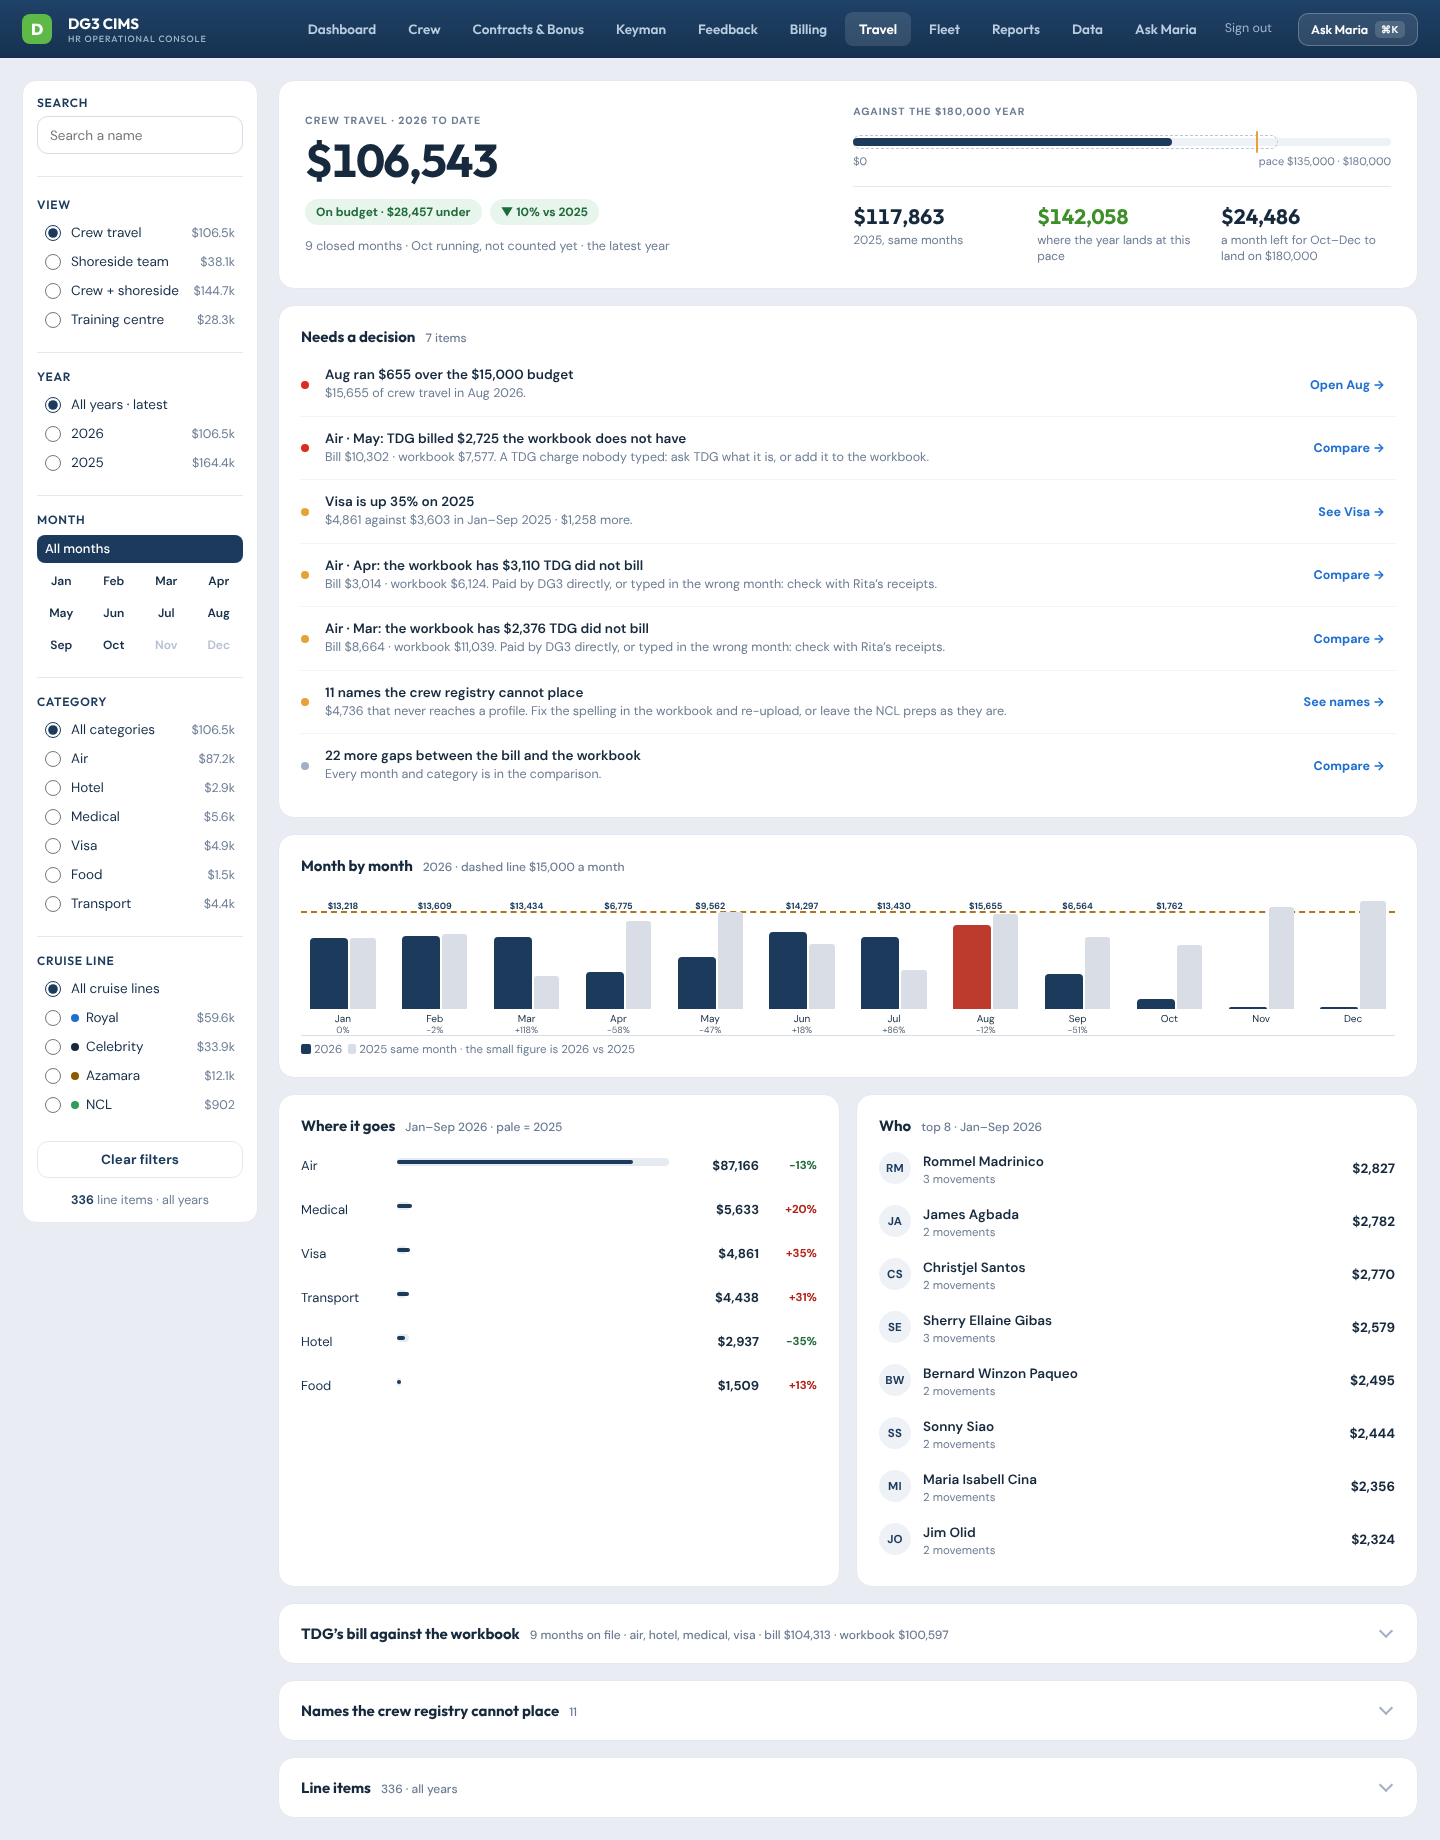
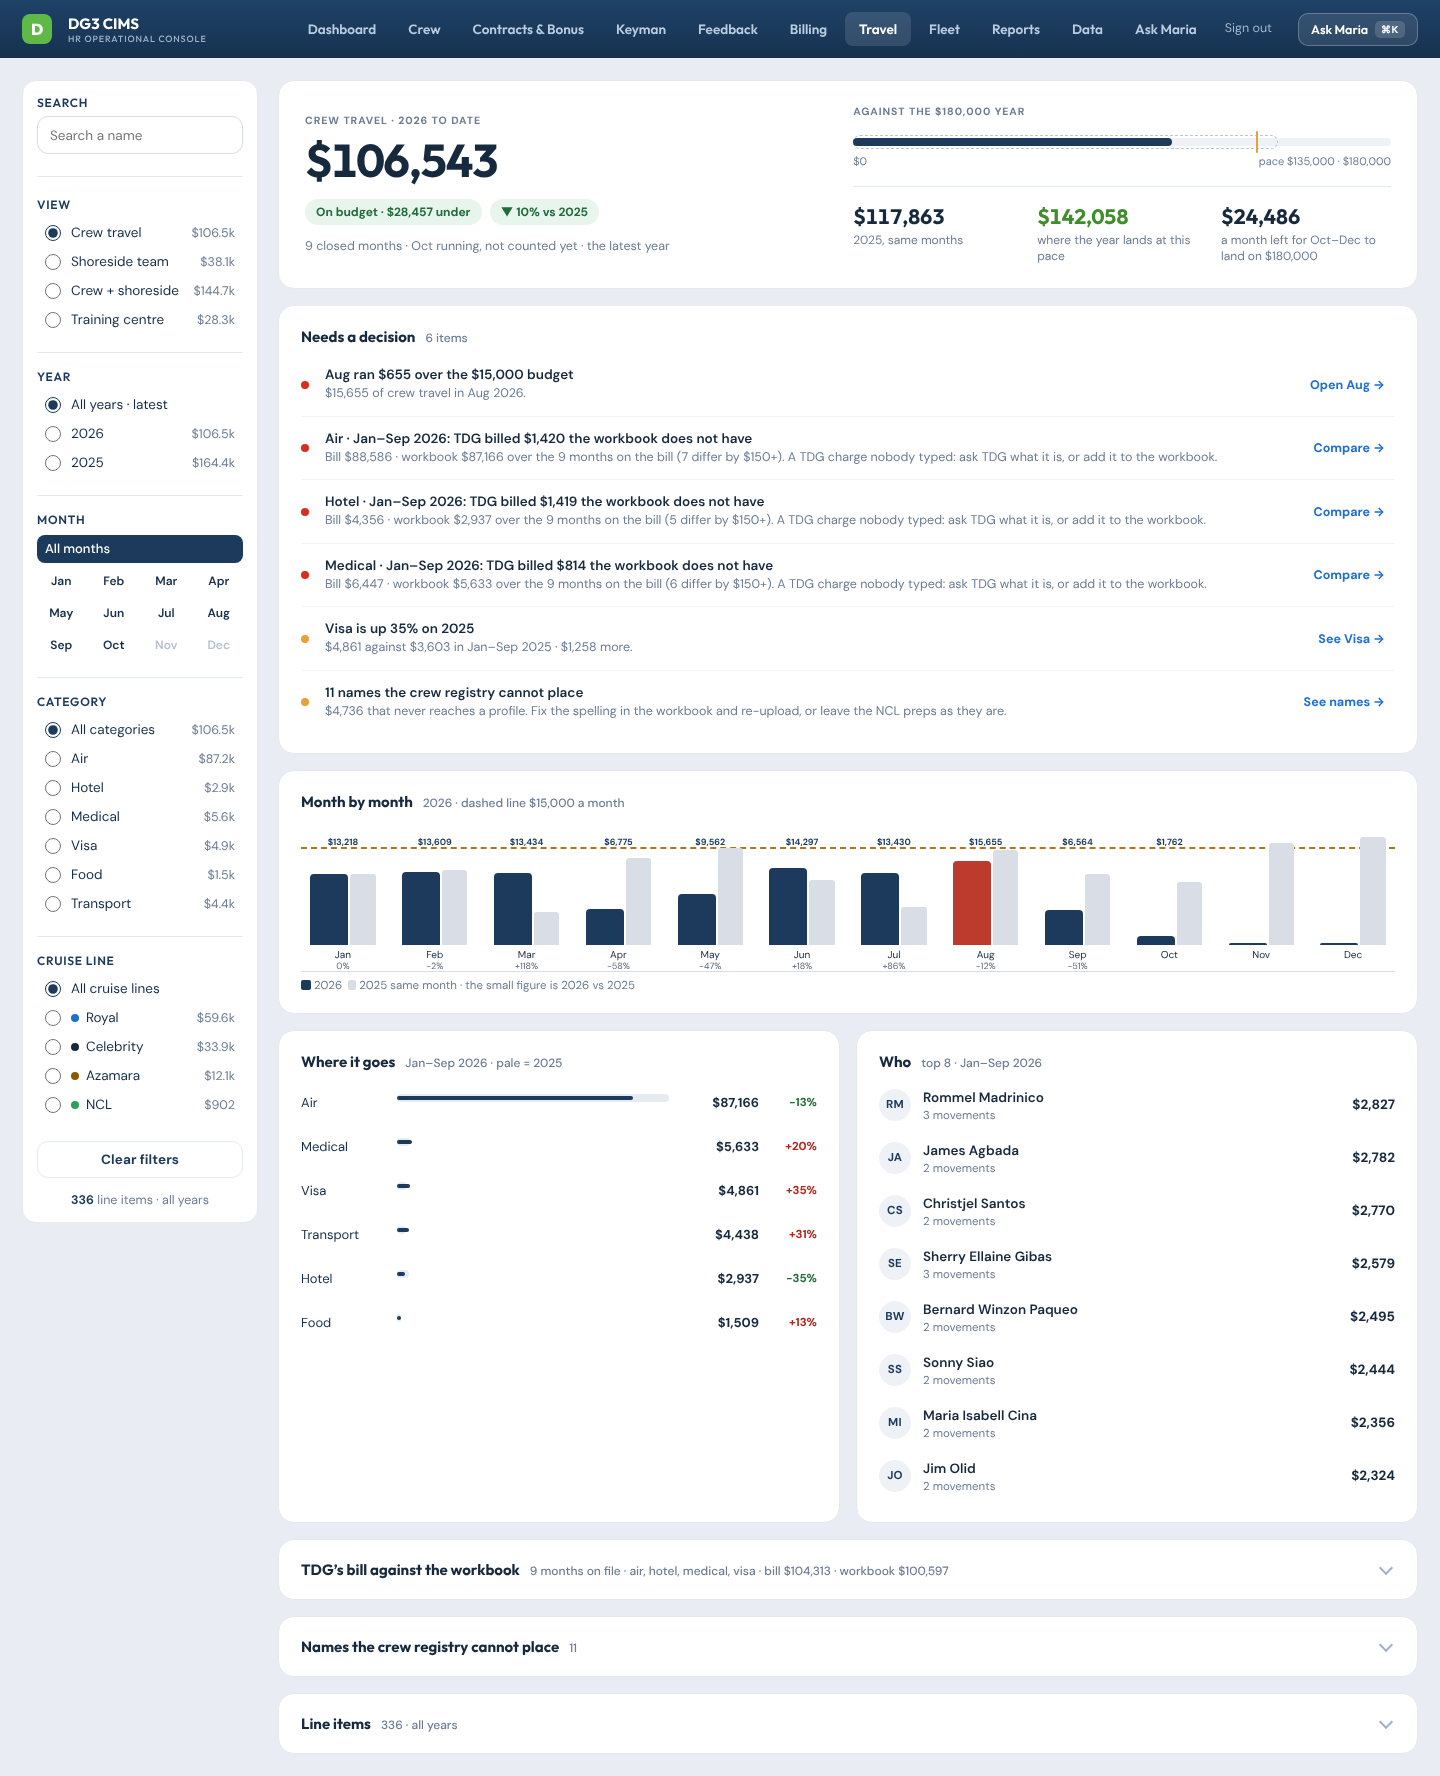
Travel: "Needs a decision" lists one net bill-vs-workbook gap per category for the year
Miguel, 17 Oct 2026: "Net per year". A charge typed into the neighbouring month cancelled
nothing in the month-by-month list and showed as two gaps; now each category's gap is summed
over the months TDG's bill covers, with the count of months that differ by $150+. A chosen
month is that month alone. Each month stays in the comparison fold. Settles nothing (§6).

Test proven failing on the old code (test/travel_filters.test.js #4).

Claude-Session: https://claude.ai/code/session_016vdVo4L9yZq5xcywAbAf3h

diff --git a/src/worker.js b/src/worker.js
@@ -6594,12 +6594,15 @@ function tvDecisions(ctx){
   // 2. the category that grew most against last year's same months (only when every category is shown)
   if(!cat&&ctx.hasPY){var best=null;TCATS.forEach(function(c){var l=tSum(sc,LY,P.months,c),p=tSum(sc,PY,P.months,c),d=l-p;if(p>0&&d>=1000&&d/p>=0.2&&(!best||d>best.d))best={c:c,l:l,p:p,d:d};});
     if(best)out.push({sev:'warn',t:TCATLAB[best.c]+' is up '+Math.round(best.d/best.p*100)+'% on '+PY,w:usd0(best.l)+' against '+usd0(best.p)+' in '+P.span+' '+PY+' · '+usd0(best.d)+' more.',go:'tvGo(&quot;cat&quot;,&quot;'+best.c+'&quot;)',gl:'See '+TCATLAB[best.c]});}
-  // 3. TDG's bill against the workbook (crew view, every cruise line): the biggest gaps first
+  // 3. TDG's bill against the workbook (crew view, every cruise line): ONE net gap per category over the months the bill
+  // covers (Miguel, 17 Oct 2026: "Net per year") — a charge typed into a neighbouring month cancels out here; each month
+  // stays in the comparison fold. A chosen month is that month alone.
   if(SGA&&TF.kind==='crew'&&!TF.client){var B=sgaBillOf(LY,P.mo?[P.mo]:null),gaps=[];
-    B.months.forEach(function(m){TV_BILL_CATS.forEach(function(c){if(cat&&c[0]!==cat)return;var s=B.sum(m,c[0]),w=sc.filter(function(r){return r.year===LY&&r.month===m&&(r.kind||'crew')!=='shoreside';}).reduce(function(a,r){return a+(+r[c[0]]||0);},0),d=w-s;if(Math.abs(d)>=TV_GAP_MIN)gaps.push({m:m,c:c[1],d:d,s:s,w:w});});});
+    var wbOf=function(m,k){return sc.filter(function(r){return r.year===LY&&r.month===m&&(r.kind||'crew')!=='shoreside';}).reduce(function(a,r){return a+(+r[k]||0);},0);};
+    var bm=B.months,spanB=bm.length?(bm.length===1?TMN[bm[0]]:TMN[bm[0]]+'–'+TMN[bm[bm.length-1]]):'';
+    TV_BILL_CATS.forEach(function(c){if(cat&&c[0]!==cat)return;var s=0,w=0,off=0;bm.forEach(function(m){var sm=B.sum(m,c[0]),wm=wbOf(m,c[0]);s+=sm;w+=wm;if(Math.abs(wm-sm)>=TV_GAP_MIN)off++;});var d=w-s;if(Math.abs(d)>=TV_GAP_MIN)gaps.push({c:c[1],d:d,s:s,w:w,off:off});});
     gaps.sort(function(a,b){return Math.abs(b.d)-Math.abs(a.d);});
-    gaps.slice(0,3).forEach(function(g){out.push({sev:g.d<0?'crit':'warn',t:g.c+' · '+TMN[g.m]+': '+(g.d<0?'TDG billed '+usd0(-g.d)+' the workbook does not have':'the workbook has '+usd0(g.d)+' TDG did not bill'),w:'Bill '+usd0(g.s)+' · workbook '+usd0(g.w)+'. '+(g.d<0?'A TDG charge nobody typed: ask TDG what it is, or add it to the workbook.':'Paid by DG3 directly, or typed in the wrong month: check with Rita’s receipts.'),go:'tvOpen(&quot;tvsga&quot;)',gl:'Compare'});});
-    if(gaps.length>3)out.push({sev:'info',t:(gaps.length-3)+' more gaps between the bill and the workbook',w:'Every month and category is in the comparison.',go:'tvOpen(&quot;tvsga&quot;)',gl:'Compare'});
+    gaps.forEach(function(g){out.push({sev:g.d<0?'crit':'warn',t:g.c+' · '+(bm.length===1?TMN[bm[0]]+' '+LY:spanB+' '+LY)+': '+(g.d<0?'TDG billed '+usd0(-g.d)+' the workbook does not have':'the workbook has '+usd0(g.d)+' TDG did not bill'),w:'Bill '+usd0(g.s)+' · workbook '+usd0(g.w)+(bm.length>1?' over the '+bm.length+' months on the bill ('+g.off+' differ'+(g.off===1?'s':'')+' by '+usd0(TV_GAP_MIN)+'+)':'')+'. '+(g.d<0?'A TDG charge nobody typed: ask TDG what it is, or add it to the workbook.':'Paid by DG3 directly, or not billed yet: check with Rita’s receipts.'),go:'tvOpen(&quot;tvsga&quot;)',gl:'Compare'});});
     // a closed month of the year with workbook spend but no bill on file
     var billed=new Set(B.months);for(var mm=1;mm<=P.lastMo;mm++){if(P.mo&&mm!==P.mo)continue;if(!billed.has(mm)&&tSum(sc,LY,[mm],null)>0&&((SGA.files||[]).length))out.push({sev:'info',t:'No TDG bill on file for '+TMN[mm]+' '+LY,w:'Finance sends it to sga@cims.work once a month; until then the workbook is the only number.',go:'',gl:''});}
   }

diff --git a/test/travel_filters.test.js b/test/travel_filters.test.js
@@ -54,9 +54,10 @@ RECORDS.push(rec(2026, 5, { client: "celebrity", air: 1200, crew_name: "Beta, Bo
 RECORDS.push(rec(2025, 6, { client: "celebrity", air: 900, crew_name: "Gamma, Gil", agency_id: "SC-3", ship: "Apex" }));
 const TRAVEL = { years: [2026, 2025], today: "2026-10-17", closed: { 2026: 9, 2025: 12 }, budgetMo: 15000, records: RECORDS,
   unmatched: [{ crew_name: "Nobody, Known", how: "none", rows: 2, total: 640, years: [2026] }] };
-// TDG billed March air $1,000 more than the workbook carries; every other month agrees.
+// TDG billed March air $1,000 more than the workbook carries; April's hotel is billed $500 high and May's $500 low (one
+// charge in the next month's bill: nets to zero over the year); every other month agrees.
 const SGA = { today: "2026-10-17", lines: [], files: [{ year: 2026, month: 9, sga_no: "39-A", rows: 0, total: 1 }],
-  summary: Array.from({ length: 9 }, (_, i) => ({ year: 2026, month: i + 1, air: (i + 1 === 8 ? 15500 : 9000) + (i + 1 === 3 ? 1000 : 0) + (i + 1 === 5 ? 1200 : 0), hotel: 1500, medical: 0, visa: 0, medical_repat: 0, crew_total: 30000 })),
+  summary: Array.from({ length: 9 }, (_, i) => ({ year: 2026, month: i + 1, air: (i + 1 === 8 ? 15500 : 9000) + (i + 1 === 3 ? 1000 : 0) + (i + 1 === 5 ? 1200 : 0), hotel: 1500 + (i + 1 === 4 ? 500 : 0) - (i + 1 === 5 ? 500 : 0), medical: 0, visa: 0, medical_repat: 0, crew_total: 30000 })),
   training: [{ year: 2026, month: 1, total: 1000, rental: 800, utilities: 200 }, { year: 2025, month: 1, total: 900, rental: 800, utilities: 100 }] };
 
 async function openTravel() {
@@ -116,7 +117,15 @@ test("4. Needs a decision: what the data holds, each with its button; nothing is
   const b = p.body();
   assert.match(b, /Aug ran \$2,000 over the \$15,000 budget/);
   assert.match(b, /tvGo\(&quot;month&quot;,8\)/, "the row opens August");
-  assert.match(b, /Air · Mar: TDG billed \$1,000 the workbook does not have/, "the bill against the workbook, by month and category");
+  assert.match(b, /Air · Jan–Sep 2026: TDG billed \$1,000 the workbook does not have/, "ONE net gap per category over the months the bill covers");
+  assert.match(b, /over the 9 months on the bill \(1 differs by \$150\+\)/);
+  const dec = b.slice(b.indexOf("Needs a decision"), b.indexOf("Month by month"));
+  assert.doesNotMatch(dec, /Hotel · /, "a charge typed in the neighbouring month nets to zero: not a decision");
+  assert.doesNotMatch(dec, /Air · Mar/, "no month-by-month rows on the year");
+  // a chosen month is that month alone: April's hotel gap shows there
+  p.run("TF.month='4';paintTravel()");
+  assert.match(p.body(), /Hotel · Apr 2026: TDG billed \$500 the workbook does not have/);
+  p.run("TF.month='';paintTravel()");
   assert.match(b, /tvOpen\(&quot;tvsga&quot;\)/);
   assert.match(b, /Air is up 22% on 2025/, "the category that grew most (in dollars, 20%+ and $1,000+) against last year's same months");
   assert.match(b, /1 name the crew registry cannot place/);

diff --git a/CLAUDE.md b/CLAUDE.md
@@ -868,7 +868,9 @@ Worker reads SharePoint itself (Microsoft Graph; the app registration and secret
   $180,000 with the pace tick and the dashed projection; last year same months, where the year lands, and **what is left a
   month** for the rest of the year to land on budget — or, on a view with no budget, "No budget for this view · year
   against year"); **Needs a decision** (`tvDecisions`): a closed month over $15,000 (budgeted view), TDG's bill against the
-  workbook by month and category ≥ `TV_GAP_MIN` = $150 (biggest three, "N more"), the category up most on last year
+  workbook as ONE net gap per category over the months the bill covers, ≥ `TV_GAP_MIN` = $150 (Miguel, 17 Oct 2026:
+  "Net per year" — a charge typed into the next month cancels out; a chosen month is that month alone; each month stays in
+  the comparison fold), the category up most on last year
   (≥ 20% and ≥ $1,000), a closed month with spend and no bill on file, the names the roster cannot place, single movements
   above 2.5× the usual — each says what it means and opens the place that holds it (`tvGo` sets one filter, `tvOpen`
   opens a fold); it settles nothing (§6); none → "Nothing needs a decision in <period>". Then Month by month (`tBars`),
